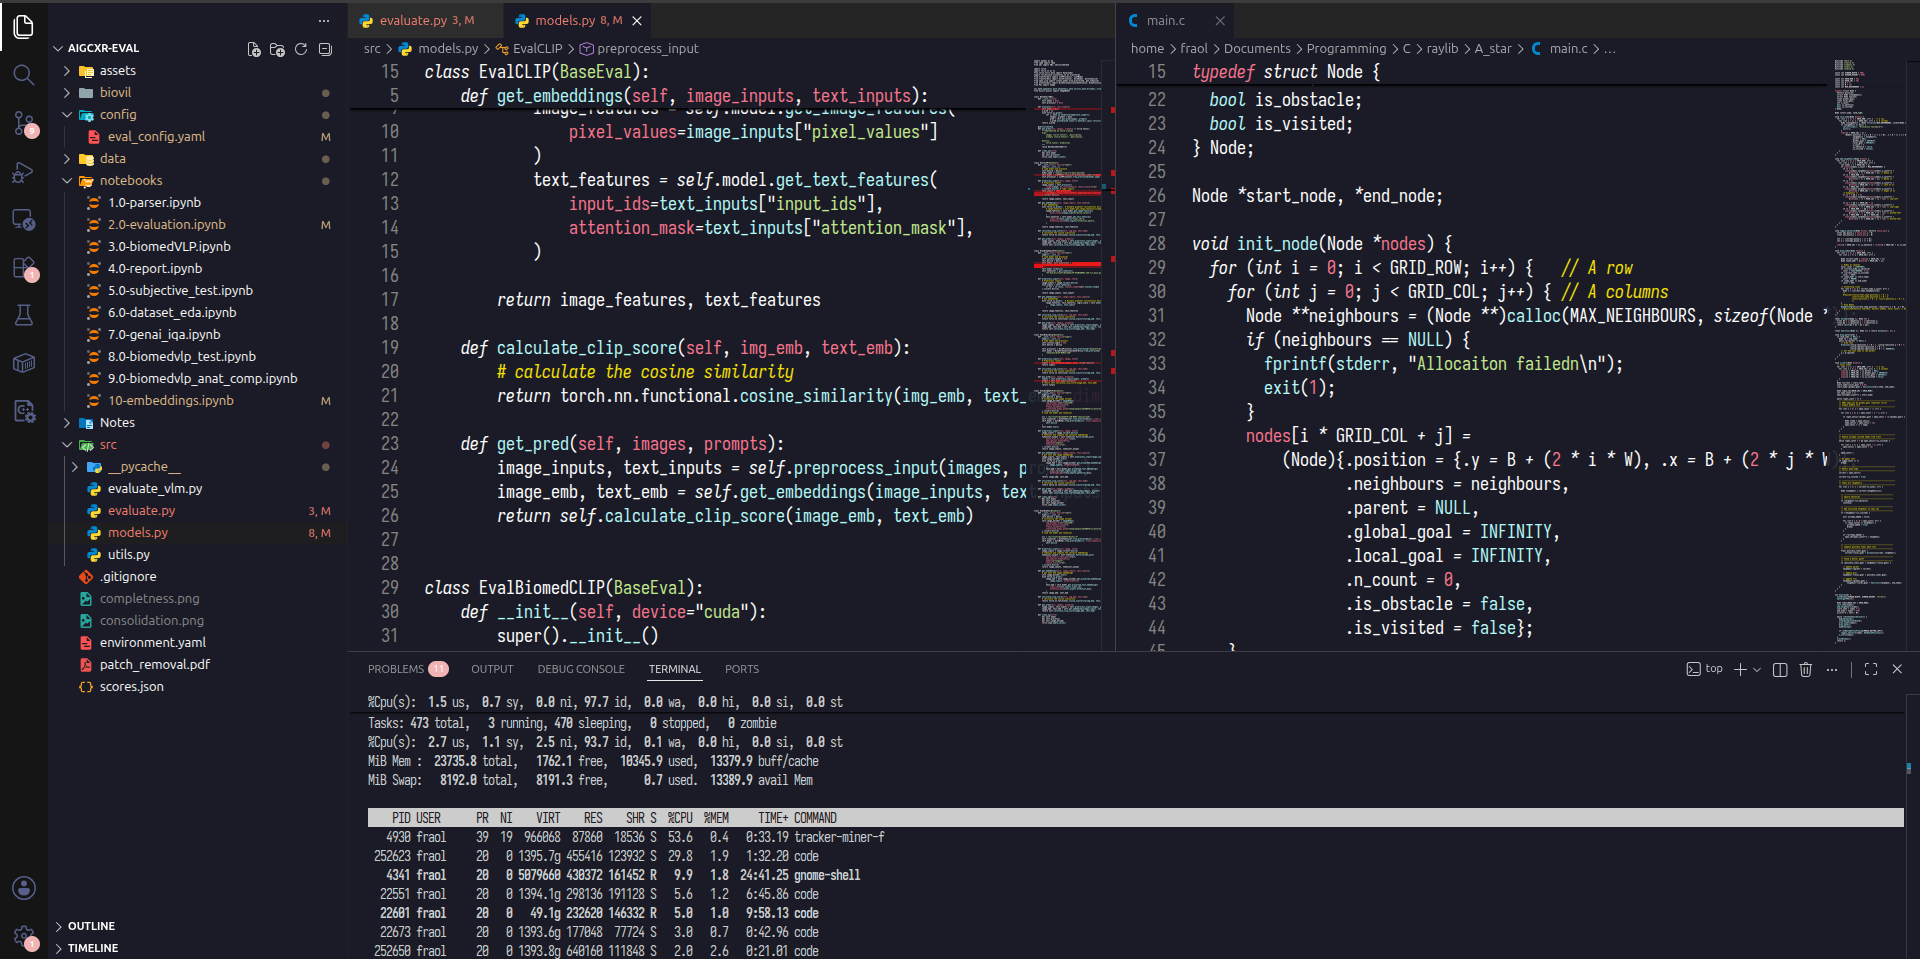
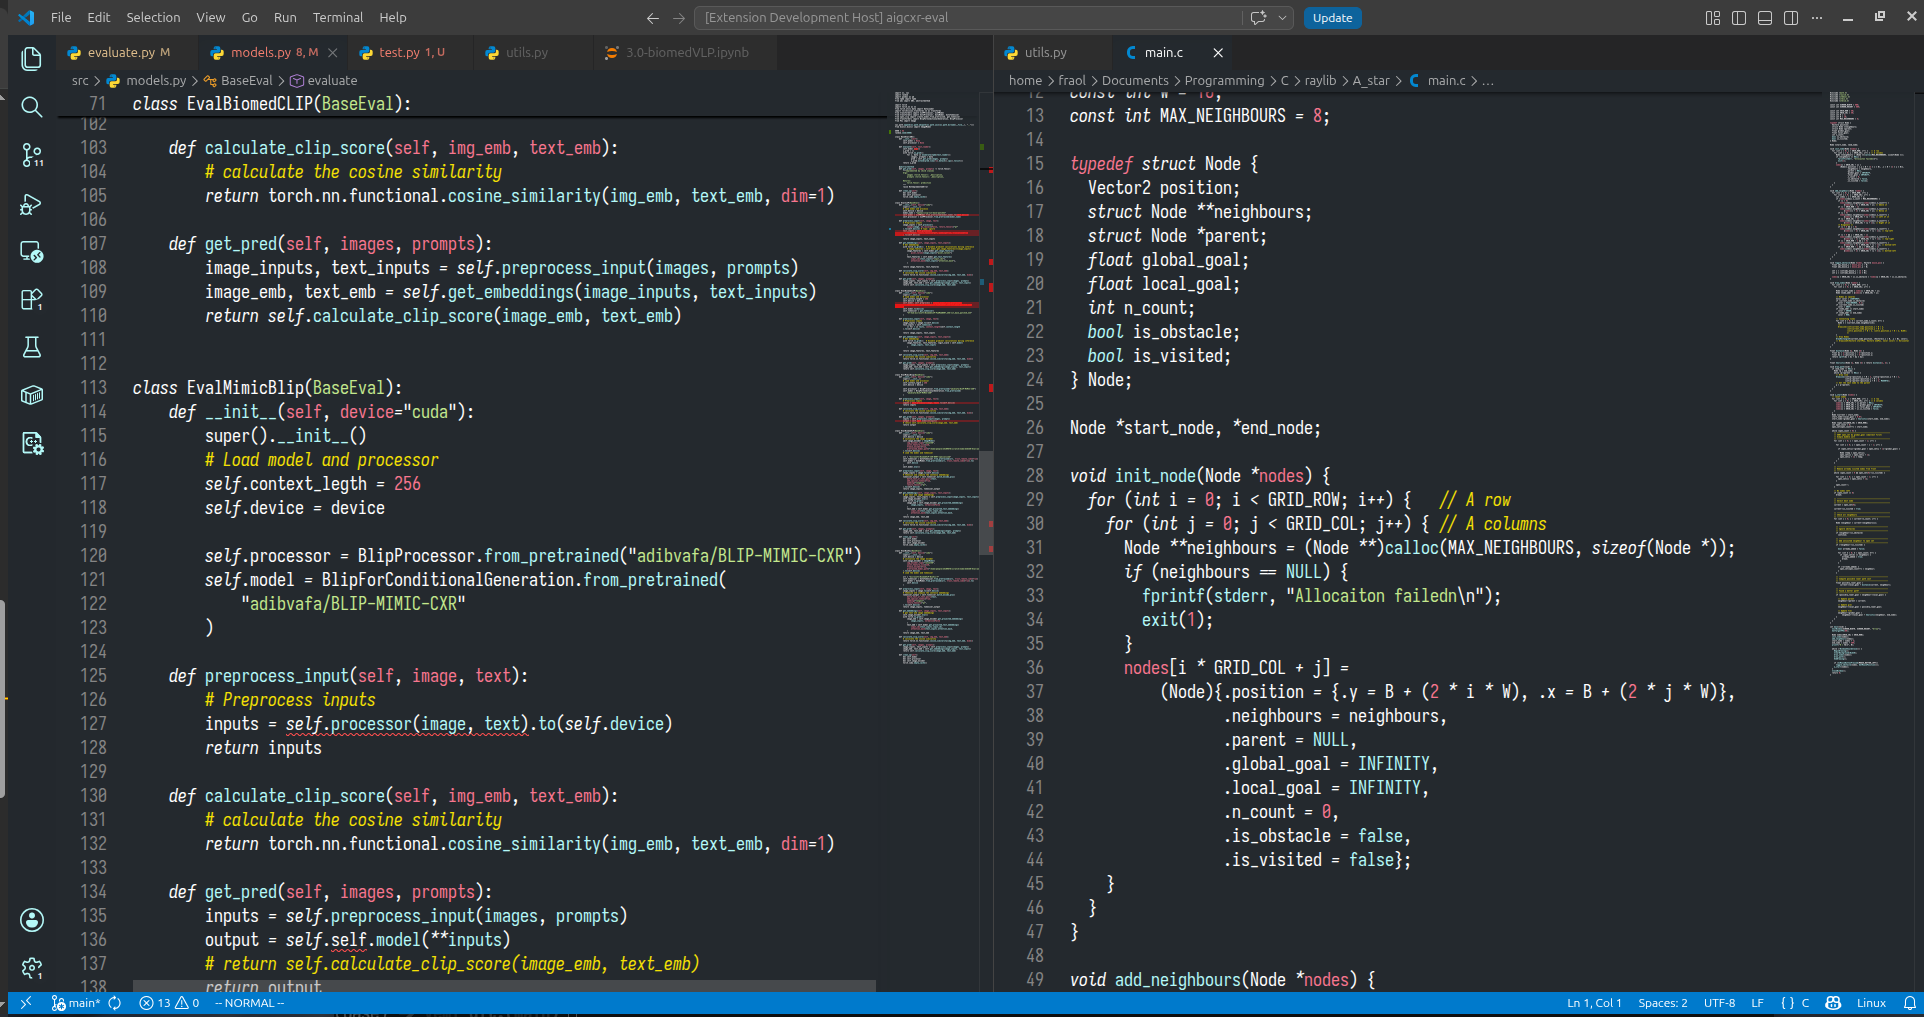
change dark bg to

diff --git a/README.md b/README.md
@@ -1,23 +1,25 @@
 # Yemi Theme
 
-A VScode color theme blending the extreme typographic clarity of **Alabaster** with the elegant, cool undertones of **Tokyo Night**. Available in both Dark and Light variants.
+A minimalist color theme blending the typographic layout of **Alabaster** with the cool palette of **Tokyo Night**. Available for both VS Code and Vim/Neovim.
 
-![Yemi Theme Preview](images/preview_dark.png)
+![Yemi Theme Preview (Dark)](images/preview_dark.png)
+![Yemi Theme Preview (Light)](images/preview_light.png)
 
-## 🎨 The Philosophy
+## 🎨 Design Approach
 
-Most modern color themes distract you with a rainbow of colors for every brackets, keyword, and operator. **Yemi Theme** strips away the noise to supercharge your deep focus. 
+Instead of assigning distinct colors to every token, **Yemi** relies on typography and constraint to keep code clean and readable.
 
-* **Monochromatic Logic:** Variables, punctuation, and structural logic are kept clean, crisp, and neutral.
-* **Typographic Separation:** Keywords (`if`, `for`, `return`, `class`) are styled with fluid, intentional italics to cleanly break up control flow without altering syntax colors.
-* **Tokyo Night Accents:** Neon tones are used exceptionally sparingly—only targeting strings, numbers, and comments to make them instantly scannable.
+* **Monochromatic Base:** Variables, punctuation, and structures are kept neutral (white/black) to reduce visual noise.
+* **Typographic Contrast:** Keywords (`if`, `for`, `return`) use italics rather than a new color to differentiate control flow.
+* **Disciplined Accents:** Muted Tokyo Night tones are applied strictly to strings, numbers, and comments for quick scanning.
+* **No Clutter:** Rainbow brackets and vertical indentation scope lines are disabled by default.
 
 ---
 
-## 🌓 Variants Included
+## 🌓 Variants
 
-### 1. Yemi Dark
-A stealthy, soothing canvas engineered for long nights. Features an ultra-dark background paired with glowing, muted Tokyo Night accents.
+### Yemi Dark
+An soft-gray dark background (`#24292E`) paired with low-intensity neon accents.
 
-### 2. Yemi Light
-A premium, high-legibility layout built on a soft, creamy off-white backdrop. Perfectly balancing high contrast with eye comfort.
+### Yemi Light
+A soft, cream-gray background (`#f7f7f7`) balancing high legibility with eye comfort.